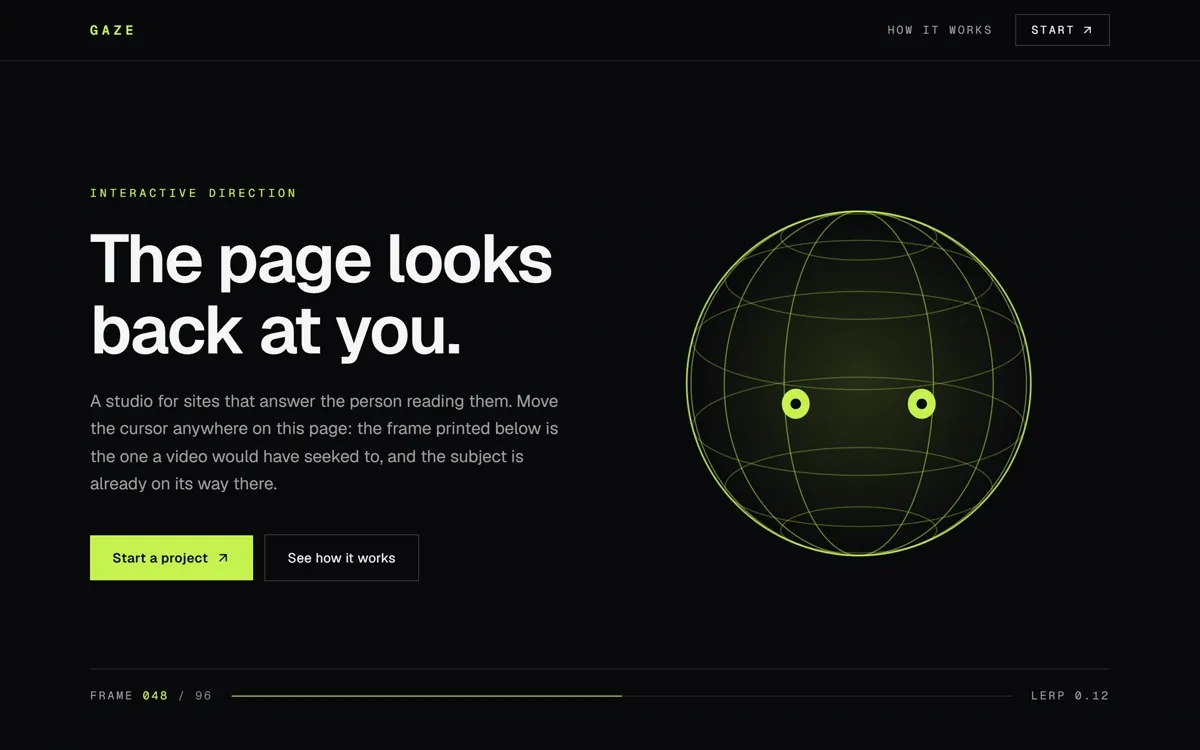
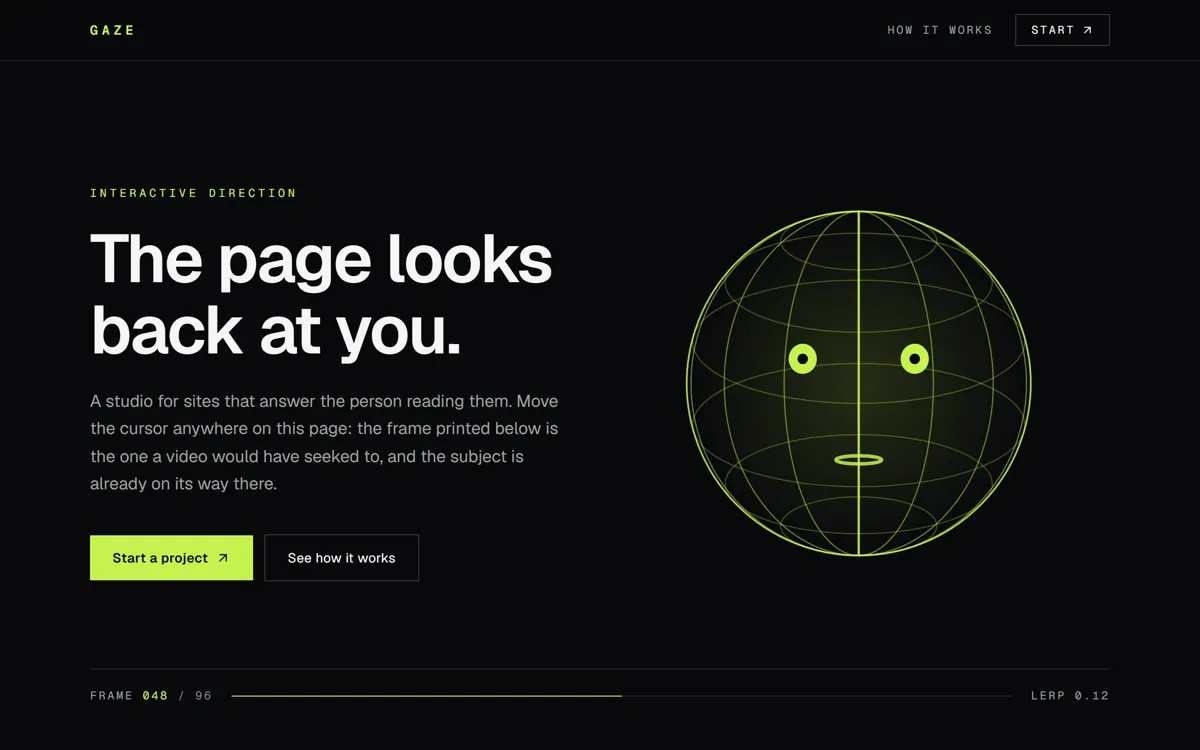
Fix the pitch axis on Gaze, which ran backwards
A cursor at the top of the window tipped the subject's face down and one at the
bottom tipped it up: the pitch term was added to a resting angle that is itself
negative, so the sign of the whole rotation followed the wrong end. Every check
in place passed either way round, because turning is turning whichever
direction it goes, so the eyes are now read directly and an inverted axis fails
the run.

Three things the same pass fixes, all of which made the turn hard to read:

- the vertical throw was half the horizontal one, so the subject looked like it
  tracked sideways and ignored height. Widened, with the resting pitch deepened
  to match so the parallels still never flatten into straight lines.
- the eyes sat below the equator once that resting pitch pushed them down. They
  are higher on the sphere now.
- a wireframe sphere is symmetrical about its axis, so rotating it barely shows.
  The near half of the meridian through the nose is drawn as its own arc, and a
  mouth sits on it below the eyes. Two dots on a sphere read as two dots; a
  third below them reads as a face, and the turn reads as a look.

Changed region(s): [[0.5858, 0.276, 0.8325, 0.736], [0.7708, 0.3987, 0.8325, 0.4293], [0.5858, 0.3987, 0.6475, 0.4293]]

diff --git a/web/src/components/labs/gaze-rig.tsx b/web/src/components/labs/gaze-rig.tsx
@@ -29,7 +29,14 @@ const MERIDIANS = [0, 1, 2, 3, 4, 5, 6].map((i) => (i * Math.PI) / 7);
 const PARALLELS = [-1, -0.62, -0.24, 0.24, 0.62, 1].map((v) => v * 1.1);
 
 /** Where the eyes sit on the sphere: longitude out from the nose, latitude up. */
-const EYES = [-0.38, 0.38].map((longitude) => ({ longitude, latitude: 0.16 }));
+const EYES = [-0.38, 0.38].map((longitude) => ({ longitude, latitude: 0.5 }));
+
+/**
+ * On the ridge, below the eyes. Two dots on a sphere read as two dots on a
+ * sphere; a third below them is what makes the whole thing read as a face and
+ * the turn read as a look.
+ */
+const MOUTH = { longitude: 0, latitude: -0.08 };
 
 /** Turn, in radians, at the far left and far right of the viewport. */
 const YAW_RANGE = 1.5;
@@ -39,8 +46,8 @@ const YAW_RANGE = 1.5;
  * parallels project to straight lines, which is correct and reads as a mistake,
  * so the range is kept entirely on one side of it.
  */
-const PITCH_CENTRE = -0.3;
-const PITCH_RANGE = 0.42;
+const PITCH_CENTRE = -0.38;
+const PITCH_RANGE = 0.66;
 
 interface Point {
   x: number;
@@ -71,12 +78,21 @@ function project(
   };
 }
 
+/** The near half of the meridian through the nose, as an SVG arc. */
+function ridgePath(yaw: number) {
+  const bulge = Math.abs(RADIUS * Math.sin(yaw)).toFixed(2);
+  const sweep = Math.sin(yaw) >= 0 ? 1 : 0;
+  return `M 0 ${-RADIUS} A ${bulge} ${RADIUS} 0 0 ${sweep} 0 ${RADIUS}`;
+}
+
 const yawOf = (progress: number) => (progress - 0.5) * YAW_RANGE;
-const pitchOf = (tilt: number) => PITCH_CENTRE + (tilt - 0.5) * PITCH_RANGE;
+const pitchOf = (tilt: number) => PITCH_CENTRE - (tilt - 0.5) * PITCH_RANGE;
 
 export function GazeRig({ ref }: { ref?: Ref<GazeRigHandle> }) {
   const meridianRefs = useRef<(SVGEllipseElement | null)[]>([]);
   const parallelRefs = useRef<(SVGEllipseElement | null)[]>([]);
+  const ridgeRef = useRef<SVGPathElement>(null);
+  const mouthRef = useRef<SVGEllipseElement>(null);
   const eyeRefs = useRef<(SVGEllipseElement | null)[]>([]);
   const pupilRefs = useRef<(SVGCircleElement | null)[]>([]);
 
@@ -108,6 +124,17 @@ export function GazeRig({ ref }: { ref?: Ref<GazeRigHandle> }) {
           Math.abs(RADIUS * Math.cos(latitude) * Math.sin(pitch)).toFixed(2)
         );
       });
+
+      ridgeRef.current?.setAttribute("d", ridgePath(yaw));
+
+      if (mouthRef.current) {
+        const point = project(MOUTH.longitude, MOUTH.latitude, yaw, pitch, RADIUS);
+        const facing = Math.max(0, point.z / RADIUS);
+        mouthRef.current.setAttribute("cx", point.x.toFixed(2));
+        mouthRef.current.setAttribute("cy", point.y.toFixed(2));
+        mouthRef.current.setAttribute("rx", (22 * facing).toFixed(2));
+        mouthRef.current.setAttribute("opacity", Math.min(0.85, facing * 1.8).toFixed(3));
+      }
 
       EYES.forEach((eye, i) => {
         const node = eyeRefs.current[i];
@@ -185,7 +212,34 @@ export function GazeRig({ ref }: { ref?: Ref<GazeRigHandle> }) {
         ))}
 
         <circle r={RADIUS} opacity="0.85" strokeWidth="1.5" />
+
+        <path
+          ref={ridgeRef}
+          d={ridgePath(yaw)}
+          strokeWidth="2"
+          opacity="0.9"
+          strokeLinecap="round"
+        />
       </g>
+
+      {(() => {
+        const point = project(MOUTH.longitude, MOUTH.latitude, yaw, pitch, RADIUS);
+        const facing = Math.max(0, point.z / RADIUS);
+        return (
+          <ellipse
+            ref={mouthRef}
+            cx={point.x.toFixed(2)}
+            cy={point.y.toFixed(2)}
+            rx={(22 * facing).toFixed(2)}
+            ry="3.5"
+            fill="none"
+            stroke="var(--gaze-accent)"
+            strokeWidth="3"
+            strokeLinecap="round"
+            opacity={Math.min(0.85, facing * 1.8).toFixed(3)}
+          />
+        );
+      })()}
 
       <g>
         {EYES.map((eye, i) => {

diff --git a/web/src/lib/lab-cards.ts b/web/src/lib/lab-cards.ts
@@ -6,7 +6,7 @@
 // สร้างจากสคริปต์ ห้ามแก้มือ
 
 export const labCardVersions: Record<string, string> = {
-  "gaze": "d3f69857",
+  "gaze": "27b2d78b",
   "meeple": "08a29a94",
   "slab": "83a94b72",
   "ember": "451faf74",
